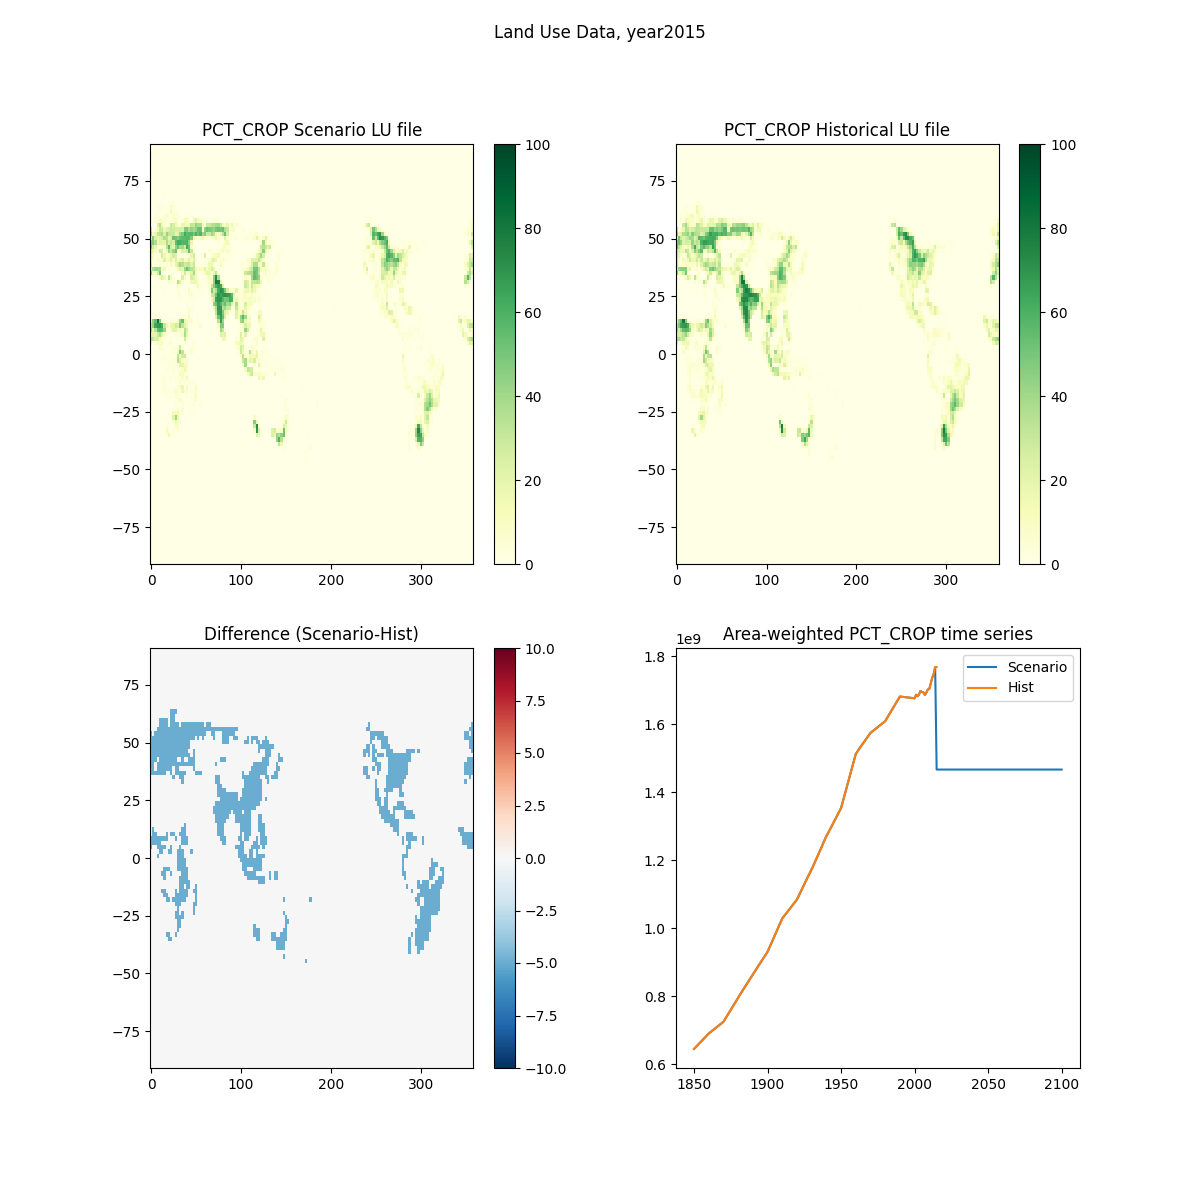
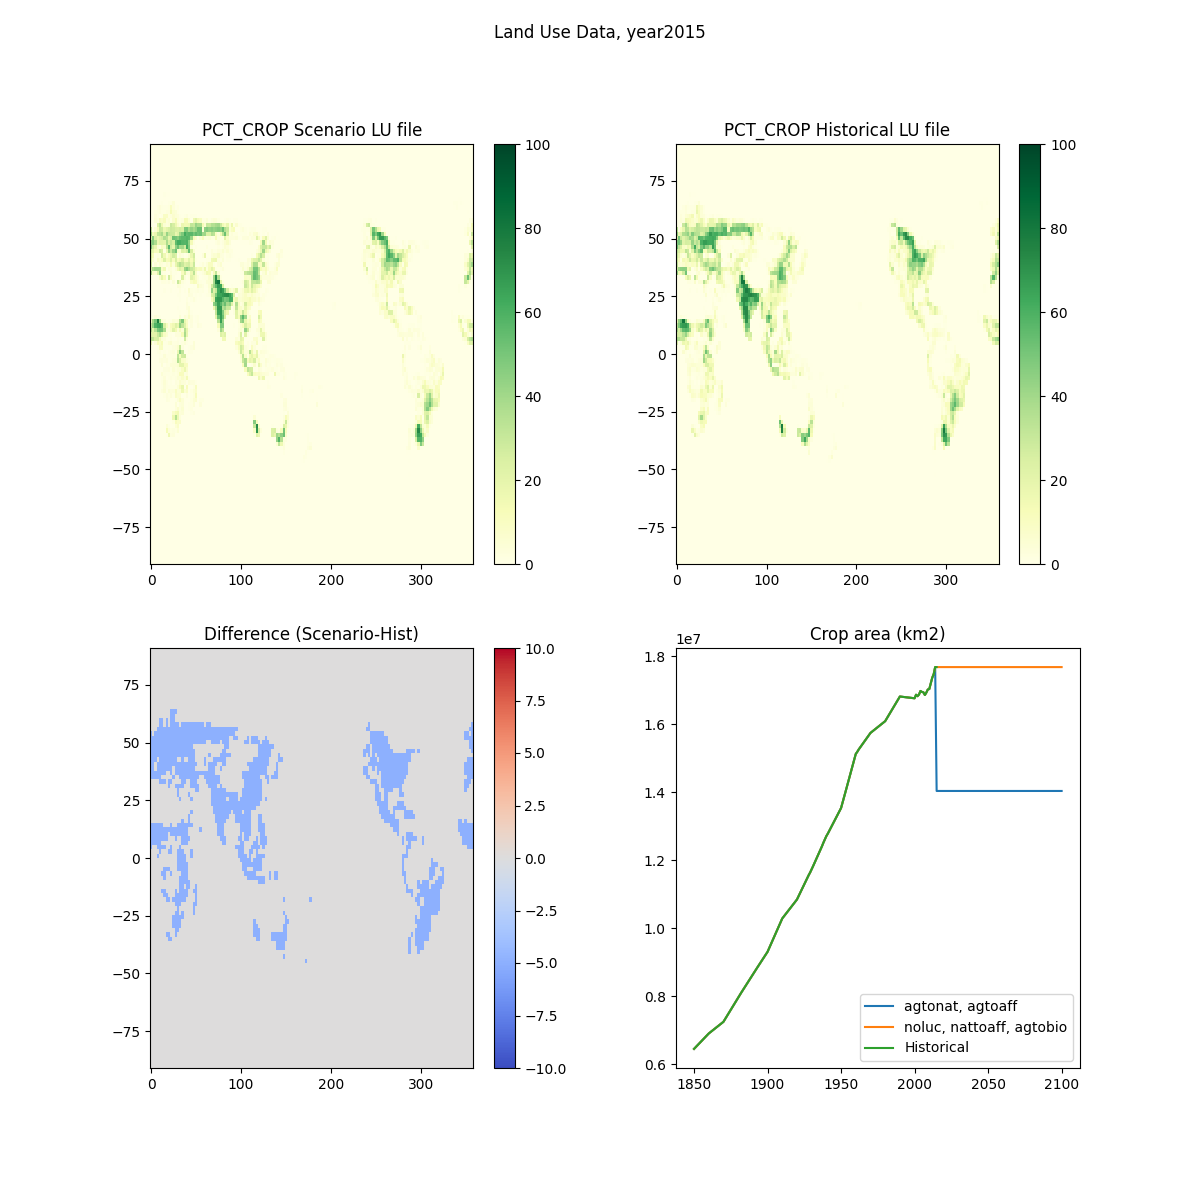
Modify experiments and add constant harvest rates

diff --git a/Modify_landuse_future.py b/Modify_landuse_future.py
@@ -12,136 +12,189 @@ from matplotlib import pyplot as plt
 ssp_name1 = 'ssp370' #ssp126, ssp370
 ssp_name2 = 'SSP3-7.0' # SSP1-2.6, SSP3-7.0
 
-exp_name = 'agtonat' # noluc, agtonat, agtoaff, nattoaff, agtobio, nattobio
-# define file names
-org_landuse_file = '/cluster/shared/noresm/inputdata/lnd/clm2/surfdata_map/release-clm5.0.18/landuse.timeseries_1.9x2.5_' + ssp_name2 + '_78pfts_CMIP6_simyr1850-2100_c190228.nc'
-new_landuse_file = os.environ.get('USERWORK')+'/isimip_forc/Ohter_modified_files/landuse.timeseries_1.9x2.5_' + ssp_name2 + '_78pfts_CMIP6_simyr1850-2100_ESM2025_' + exp_name + '.nc'
-hist_landuse_file = os.environ.get('USERWORK')+'/isimip_forc/Ohter_modified_files/landuse.timeseries_1.9x2.5_hist_78pfts_CMIP6_simyr1850-2015_ESM2025.nc'
-history_file = os.environ.get('USERWORK')+'/archive/ESM2025_UKESM1-0-LL_BGC-CROP_HIST_f19_g17_historical/lnd/hist/ESM2025_UKESM1-0-LL_BGC-CROP_HIST_f19_g17_historical.clm2.h0.2014-12.nc'
+#exp_name = 'noluc' # noluc, agtonat, agtoaff, nattoaff, agtobio, nattobio
+exp_names = ['noluc', 'agtonat', 'agtoaff', 'nattoaff', 'agtobio', 'nattobio']
+for i_exp, exp_name in enumerate (exp_names):
+    # define file names
+    org_landuse_file = '/cluster/shared/noresm/inputdata/lnd/clm2/surfdata_map/release-clm5.0.18/landuse.timeseries_1.9x2.5_' + ssp_name2 + '_78pfts_CMIP6_simyr1850-2100_c190228.nc'
+    new_landuse_file = os.environ.get('USERWORK')+'/isimip_forc/Ohter_modified_files/landuse.timeseries_1.9x2.5_' + ssp_name2 + '_78pfts_CMIP6_simyr1850-2100_ESM2025_' + exp_name + '.nc'
+    hist_landuse_file = os.environ.get('USERWORK')+'/isimip_forc/Ohter_modified_files/landuse.timeseries_1.9x2.5_hist_78pfts_CMIP6_simyr1850-2015_ESM2025.nc'
+    history_file = os.environ.get('USERWORK')+'/archive/ESM2025_UKESM1-0-LL_BGC-CROP_HIST_f19_g17_historical/lnd/hist/ESM2025_UKESM1-0-LL_BGC-CROP_HIST_f19_g17_historical.clm2.h0.2014-12.nc'
 
-print(ssp_name1)
-print(org_landuse_file)
-print(new_landuse_file)
-print(hist_landuse_file)
+    print(ssp_name1)
+    #print(org_landuse_file)
+    #print(new_landuse_file)
+    #print(hist_landuse_file)
 
-# copy file
-subprocess.run(['cp', org_landuse_file, new_landuse_file])
+    # copy file
+    subprocess.run(['cp', org_landuse_file, new_landuse_file])
 
-# load the dataset
-ds_LU = nc.Dataset(new_landuse_file, mode='r+')
-ds_LU_hist = nc.Dataset(hist_landuse_file, mode='r')
-ds_history = nc.Dataset(history_file, mode='r')
+    # load the dataset
+    ds_LU = nc.Dataset(new_landuse_file, mode='r+')
+    ds_LU_hist = nc.Dataset(hist_landuse_file, mode='r')
+    ds_history = nc.Dataset(history_file, mode='r')
 
 
-# overwrite historical period
-ds_LU['PCT_CROP'][0:166,:,:]=ds_LU_hist['PCT_CROP'][0:166,:,:]
+    # overwrite historical period
+    ds_LU['PCT_CROP'][0:166,:,:]=ds_LU_hist['PCT_CROP'][0:166,:,:]
 
-# make transition in 2015 (experiment)
-natpft_2015 = ds_LU['PCT_NAT_PFT'][165:166, :, :, :]
-pctcrop_2015 = ds_LU['PCT_CROP'][165:166, :, :]
-pctcft_2015 = ds_LU['PCT_CFT'][165:166, :, :, :]
+    # make transition in 2015 (experiment)
+    natpft_2015 = ds_LU['PCT_NAT_PFT'][165:166, :, :, :]
+    pctcrop_2015 = ds_LU['PCT_CROP'][165:166, :, :]
+    pctcft_2015 = ds_LU['PCT_CFT'][165:166, :, :, :]
+    landfrac = ds_LU['LANDFRAC_PFT'][:, :]
+    lat = ds_LU['LATIXY'][:, :]
+    pctcrop_2015_2d_in=np.sum(pctcrop_2015,axis=0)
 
-pct_natveg = ds_history['PCT_LANDUNIT'][0,0, :, :]
-pct_grass = np.sum(natpft_2015[0,12:15,:,:], axis=0)
-pct_forest = np.sum(natpft_2015[0,1:9,:,:], axis=0)
-pct_nonforest = np.sum(natpft_2015[0,9:15,:,:], axis=0) + natpft_2015[0,0,:,:]
+    pct_natveg = ds_history['PCT_LANDUNIT'][0,0, :, :]
+    pct_grass = np.sum(natpft_2015[0,12:15,:,:], axis=0)
+    pct_bare = np.sum(natpft_2015[0,0:1,:,:], axis=0)
+    pct_forest = np.sum(natpft_2015[0,1:9,:,:], axis=0)
+    pct_nonforest = np.sum(natpft_2015[0,9:15,:,:], axis=0) + natpft_2015[0,0,:,:]
 
-print(pct_natveg.shape)
-print(pct_forest.shape)
-print(pct_nonforest.shape)
-print(natpft_2015.shape)
+    #print(pct_natveg.shape)
+    #print(pct_forest.shape)
+    #print(pct_nonforest.shape)
+    #print(natpft_2015.shape)
 
-if exp_name == 'noluc':
-    print('noluc')
-elif exp_name == 'agtonat': #Conversion of agricultural land to natural land
-    print('agtonat') 
-    # change pct_crop (implicitly changing pct_natveg), keeping pft and cft distributions
-    pctcrop_2015 = np.where(pctcrop_2015>5.0,pctcrop_2015 - 5.0, pctcrop_2015)    
-elif exp_name == 'agtoaff': #Conversion of agricultural land to afforestation
-    print('agtoaff')
-    # create new pft distribution 
-    # demand at least 5% forest in grid cell before transition
-    # don't change distribution where forest already dominates (but still do crop->natveg)
-    
-    addforest=5*100/pct_natveg
+    if exp_name == 'noluc':
+        print('noluc')
+    elif exp_name == 'agtonat': #Conversion of agricultural land to natural land
+        print('agtonat') 
+        # change pct_crop (implicitly changing pct_natveg), keeping pft and cft distributions
+        pctcrop_2015 = np.where(pctcrop_2015>5.0,pctcrop_2015 - 5.0, pctcrop_2015)    
+    elif exp_name == 'agtoaff': #Conversion of agricultural land to afforestation
+        print('agtoaff')
+        # create new pft distribution     
+        # don't change distribution where forest already dominates (but still do crop->natveg)
+        
+        addforest=5*100/pct_natveg
 
-    natpft_2015[0,0,:,:] = np.where((pctcrop_2015>5.0) & (pct_forest>5.0) & (pct_forest<addforest) & (pct_nonforest>addforest), natpft_2015[0,0,:,:] - addforest*(natpft_2015[0,0,:,:]/pct_nonforest), natpft_2015[0,0,:,:])
-    for i in range(1, 9):
-        natpft_2015[0,i,:,:] = np.where((pctcrop_2015>5.0) & (pct_forest>5.0) & (pct_forest<addforest) & (pct_nonforest>addforest),natpft_2015[0,i,:,:] + addforest*(natpft_2015[0,i,:,:]/pct_forest), natpft_2015[0,i,:,:])
-    for i in range(9,15):
-        natpft_2015[0,i,:,:] = np.where((pctcrop_2015>5.0) & (pct_forest>5.0) & (pct_forest<addforest) & (pct_nonforest>addforest),natpft_2015[0,i,:,:] - addforest*(natpft_2015[0,i,:,:]/pct_nonforest), natpft_2015[0,i,:,:])
+        natpft_2015[0,0,:,:] = np.where((pctcrop_2015>5.0)  & (pct_nonforest>addforest), natpft_2015[0,0,:,:] - addforest*(natpft_2015[0,0,:,:]/pct_nonforest), natpft_2015[0,0,:,:])
+        for i in range(1, 9):
+            natpft_2015[0,i,:,:] = np.where((pctcrop_2015>5.0) & (pct_nonforest>addforest),natpft_2015[0,i,:,:] + addforest*(natpft_2015[0,i,:,:]/pct_forest), natpft_2015[0,i,:,:])
+        for i in range(9,15):
+            natpft_2015[0,i,:,:] = np.where((pctcrop_2015>5.0) & (pct_nonforest>addforest),natpft_2015[0,i,:,:] - addforest*(natpft_2015[0,i,:,:]/pct_nonforest), natpft_2015[0,i,:,:])
 
-    # reduce crop area with 5 pct
-    pctcrop_2015 = np.where((pctcrop_2015>5.0) & (pct_forest>5.0),pctcrop_2015 - 5.0, pctcrop_2015)  
+        #special treatment of no-forrest grid-cells. Put all addforest into BET Tropical (-40<lat<40) or NET Boreal 
+        natpft_2015[0,2,:,:] = np.where((abs(lat)>40) & (landfrac>0.0) & (pctcrop_2015>5.0) & (pct_nonforest>addforest) & (pct_forest==0.0),natpft_2015[0,2,:,:] + addforest, natpft_2015[0,2,:,:])
+        natpft_2015[0,4,:,:] = np.where((abs(lat)<=40) & (landfrac>0.0) & (pctcrop_2015>5.0) & (pct_nonforest>addforest) & (pct_forest==0.0),natpft_2015[0,4,:,:] + addforest, natpft_2015[0,4,:,:])
 
-elif exp_name == 'nattoaff': #Conversion of natural land to afforestation
-    print('nattoaff')
-    # create new pft distribution 
-    # demand at least 5% forest in grid cell before transition (don't plant trees where they cannot live)
-    # don't change distribution where forest already dominates (only do transitions of full 5% of grid cell)
-    
-    addforest=5*100/pct_natveg
+        # reduce crop area with 5 pct
+        pctcrop_2015 = np.where((pctcrop_2015>5.0) & (pct_nonforest>addforest) ,pctcrop_2015 - 5.0, pctcrop_2015)  
 
-    natpft_2015[0,0,:,:] = np.where((pct_forest>5.0) & (pct_forest<addforest) & (pct_nonforest>addforest), natpft_2015[0,0,:,:] - addforest*(natpft_2015[0,0,:,:]/pct_nonforest), natpft_2015[0,0,:,:])
-    for i in range(1, 9):
-        natpft_2015[0,i,:,:] = np.where((pct_forest>5.0) & (pct_forest<addforest) & (pct_nonforest>addforest),natpft_2015[0,i,:,:] + addforest*(natpft_2015[0,i,:,:]/pct_forest), natpft_2015[0,i,:,:])
-    for i in range(9,15):
-        natpft_2015[0,i,:,:] = np.where((pct_forest>5.0) & (pct_forest<addforest) & (pct_nonforest>addforest),natpft_2015[0,i,:,:] - addforest*(natpft_2015[0,i,:,:]/pct_nonforest), natpft_2015[0,i,:,:])
+    elif exp_name == 'nattoaff': #Conversion of natural land to afforestation
+        print('nattoaff')
+        # create new pft distribution 
+        # don't change distribution where forest already dominates (only do transitions of full 5% of grid cell)
+        
+        addforest=5*100/pct_natveg
+        #check land fraction. And fix zero values. 
+        natpft_2015[0,0,:,:] = np.where((landfrac>0.0) & (pct_nonforest>addforest), natpft_2015[0,0,:,:] - addforest*(natpft_2015[0,0,:,:]/pct_nonforest), natpft_2015[0,0,:,:])
+        for i in range(1, 9):
+            natpft_2015[0,i,:,:] = np.where((landfrac>0.0) & (pct_nonforest>addforest),natpft_2015[0,i,:,:] + addforest*(natpft_2015[0,i,:,:]/pct_forest), natpft_2015[0,i,:,:])
+        for i in range(9,15):
+            natpft_2015[0,i,:,:] = np.where((landfrac>0.0) & (pct_nonforest>addforest),natpft_2015[0,i,:,:] - addforest*(natpft_2015[0,i,:,:]/pct_nonforest), natpft_2015[0,i,:,:])
 
-elif exp_name == 'agtobio': #Conversion of agricultural land to bioenergy
-    print('agtobio')
-    addbio = 5*100/pctcrop_2015
-    
-    print(pctcrop_2015.shape)
-    print(pctcft_2015.shape)
-    
+        #special treatment of no-forrest grid-cells. Put all addforest into BET Tropical (-40<lat<40) or NET Boreal 
+        natpft_2015[0,2,:,:] = np.where((abs(lat)>40) & (landfrac>0.0) & (pct_nonforest>addforest) & (pct_forest==0.0),natpft_2015[0,2,:,:] + addforest, natpft_2015[0,2,:,:])
+        natpft_2015[0,4,:,:] = np.where((abs(lat)<=40) & (landfrac>0.0) & (pct_nonforest>addforest) & (pct_forest==0.0),natpft_2015[0,4,:,:] + addforest, natpft_2015[0,4,:,:])
 
-   # subtract area from all (other) cfts
-    for i in range(0, 64):
+    elif exp_name == 'agtobio': #Conversion of agricultural land to bioenergy
+        print('agtobio')
+        addbio = 5*100/pctcrop_2015
+              
+    # subtract area from all (other) cfts
+        for i in range(0, 64):
+            #print('i='+str(i))    
+            pctcft_2015[0,i,:,:] = np.where((pctcrop_2015>5.0) ,pctcft_2015[0,i,:,:] - addbio*(pctcft_2015[0,i,:,:]/100), pctcft_2015[0,i,:,:])
+
+        # add area to irr miscanthus
+        i=71-14
         print('i='+str(i))    
-        pctcft_2015[0,i,:,:] = np.where((pctcrop_2015>5.0) ,pctcft_2015[0,i,:,:] - addbio*(pctcft_2015[0,i,:,:]/100), pctcft_2015[0,i,:,:])
+        pctcft_2015[0,i,:,:] = np.where((pctcrop_2015>5.0) ,pctcft_2015[0,i,:,:] + addbio, pctcft_2015[0,i,:,:])
 
-    # add area to rainfed switchgrass
-    i=72-14
-    print('i='+str(i))    
-    pctcft_2015[0,i,:,:] = np.where((pctcrop_2015>5.0) ,pctcft_2015[0,i,:,:] + addbio, pctcft_2015[0,i,:,:])
+    elif exp_name == 'nattobio': #Conversion of natural land to bioenergy. 
+        print('nattobio')
+        #Do for all natural
+        #Keep PFT dist. PCT_CROP + 5 %. Modify PCT_CFT.
 
-elif exp_name == 'nattobio': #Conversion of natural land to bioenergy. Do for all forested land. Keep PFT dist    
-    print('nattobio')
-    print('Not implemented')
+        # change pct_crop (implicitly changing pct_natveg), keeping pft and cft distributions
+        pctcrop_2015 = np.where(pct_forest+pct_nonforest>5.0,pctcrop_2015 + 5.0, pctcrop_2015)  
+        
+        addbio = 100 * 5.0/pctcrop_2015
+
+        # subtract area from all (other) cfts
+        for i in range(0, 64):
+            #print('i='+str(i))    
+            pctcft_2015[0,i,:,:] = np.where((pct_forest+pct_nonforest>5.0) ,np.maximum(0 , pctcft_2015[0,i,:,:] - addbio*(pctcft_2015[0,i,:,:]/100)), pctcft_2015[0,i,:,:])
+
+        # add area to irr miscanthus
+        i=71-14    
+        pctcft_2015[0,i,:,:] = np.where(pct_forest+pct_nonforest>5.0 ,pctcft_2015[0,i,:,:] + addbio, pctcft_2015[0,i,:,:])
+
+    else: 
+        print('No exp_name match')
+        print('will use noluc')
 
 
-else: 
-    print('No exp_name match')
-    print('will use noluc')
+    #Set harvest to constant 2015 rates
+    harvest_vars = ['HARVEST_VH1', 'HARVEST_VH2', 'HARVEST_SH1', 'HARVEST_SH2', 'HARVEST_SH3']
+    for var in harvest_vars:
+        if var in ds_LU.variables:
+            data_2015 = ds_LU[var][165, :, :]  # Extract the data at timestep 165 (2015)
+            data_2015_expanded = np.expand_dims(data_2015, axis=0)  # Expand dimensions along the time axis
+            ds_LU[var][165:, :, :] = np.broadcast_to(data_2015_expanded, ds_LU[var][165:, :, :].shape)
+        else:
+            print(f"Variable {var} not found in the dataset.")
 
+    #check new distribution
+    print('Checking new natpft distribution (should be 100, 100, =<100, >=0)')
+    print(np.max(np.max(np.sum(natpft_2015[0,:,:,:],axis=0))))
+    print(np.min(np.min(np.sum(natpft_2015[0,:,:,:],axis=0))))
+    natpft_sum = np.sum(natpft_2015[0,:,:,:], axis=0)
+    indecies = np.where(natpft_sum < 99)
+    if len(indecies[0])>0:
+        print(indecies)
+        print("len(indecies)")
+        print(len(indecies))
+        print("natpft_sum[indecies]")
+        print(natpft_sum[indecies])
+        print("pct_forest[indecies]")
+        print(pct_forest[indecies])    
+        print("pct_nonforest[indecies]")
+        print(pct_nonforest[indecies])
+        print("pct_grass[indecies]")
+        print(pct_grass[indecies])
+        print("pct_bare[indecies]")
+        print(pct_bare[indecies])
+        print("addforest[indecies]")
+        print(addforest[indecies])
+        print("pctcrop_2015_2d_in[indecies]")
+        print(pctcrop_2015_2d_in[indecies])
+    print(np.max(np.max(np.max(natpft_2015[0,:,:,:]))))
+    print(np.min(np.min(np.min(natpft_2015[0,:,:,:]))))
 
-#check new distribution
-print('Checking new natpft distribution (should be 100, 100, =<100, >=0)')
-print(np.max(np.max(np.sum(natpft_2015[0,:,:,:],axis=0))))
-print(np.min(np.min(np.sum(natpft_2015[0,:,:,:],axis=0))))
-print(np.max(np.max(np.max(natpft_2015[0,:,:,:]))))
-print(np.min(np.min(np.min(natpft_2015[0,:,:,:]))))
+    print('Checking new cft distribution (should be 100, 100, =<100, >=0)')
+    print(np.max(np.max(np.sum(pctcft_2015[0,:,:,:],axis=0))))
+    print(np.min(np.min(np.sum(pctcft_2015[0,:,:,:],axis=0))))
+    print(np.max(np.max(np.max(pctcft_2015[0,:,:,:]))))
+    print(np.min(np.min(np.min(pctcft_2015[0,:,:,:]))))
 
-print('Checking new cft distribution (should be 100, 100, =<100, >=0)')
-print(np.max(np.max(np.sum(pctcft_2015[0,:,:,:],axis=0))))
-print(np.min(np.min(np.sum(pctcft_2015[0,:,:,:],axis=0))))
-print(np.max(np.max(np.max(pctcft_2015[0,:,:,:]))))
-print(np.min(np.min(np.min(pctcft_2015[0,:,:,:]))))
+    # broadcast 2015 to 2016-2100
+    broadcasted_values_natpft = np.broadcast_to(natpft_2015, (251-165, ) + natpft_2015.shape[1:])
+    ds_LU['PCT_NAT_PFT'][165:, :, :, :] = broadcasted_values_natpft
 
-# broadcast 2015 to 2016-2100
-broadcasted_values_natpft = np.broadcast_to(natpft_2015, (251-165, ) + natpft_2015.shape[1:])
-ds_LU['PCT_NAT_PFT'][165:, :, :, :] = broadcasted_values_natpft
+    broadcasted_values_pctcrop = np.broadcast_to(pctcrop_2015, (251-165, ) + pctcrop_2015.shape[1:])
+    ds_LU['PCT_CROP'][165:, :, :] = broadcasted_values_pctcrop
 
-broadcasted_values_pctcrop = np.broadcast_to(pctcrop_2015, (251-165, ) + pctcrop_2015.shape[1:])
-ds_LU['PCT_CROP'][165:, :, :] = broadcasted_values_pctcrop
+    broadcasted_values_pctcft = np.broadcast_to(pctcft_2015, (251-165, ) + pctcft_2015.shape[1:])
+    ds_LU['PCT_CFT'][165:, :, :, :] = broadcasted_values_pctcft
 
-broadcasted_values_pctcft = np.broadcast_to(pctcft_2015, (251-165, ) + pctcft_2015.shape[1:])
-ds_LU['PCT_CFT'][165:, :, :, :] = broadcasted_values_pctcft
+    Plot_LU.plot_land_use_data2(ds_LU, ds_LU_hist, 165, 'Crop_maps_' + exp_name ) 
+    #Plot_LU.plot_forest(ds_LU, 165, 'Forest_maps_' + exp_name )
 
-Plot_LU.plot_land_use_data2(ds_LU, ds_LU_hist, 165, 'Crop_maps_' + exp_name ) 
-#Plot_LU.plot_forest(ds_LU, 165, 'Forest_maps_' + exp_name )
-
-# Save the modified NetCDF file
-ds_LU.close()
-ds_LU_hist.close()
+    # Save the modified NetCDF file
+    ds_LU.close()
+    ds_LU_hist.close()
+    ds_history.close()
